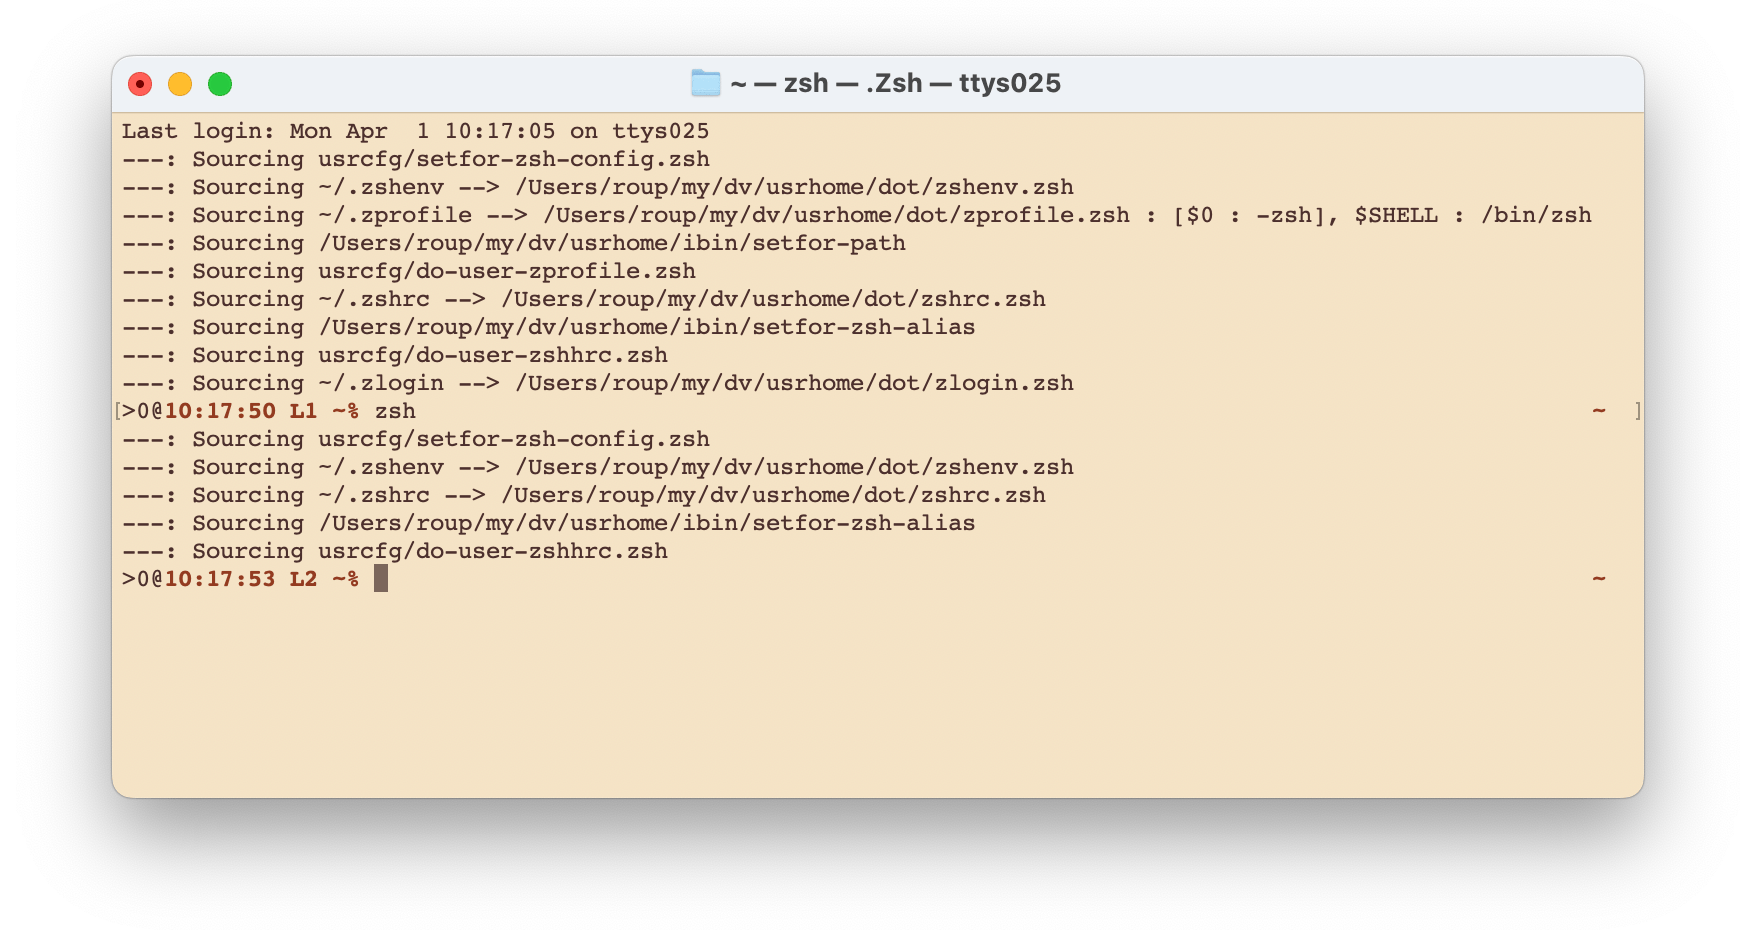
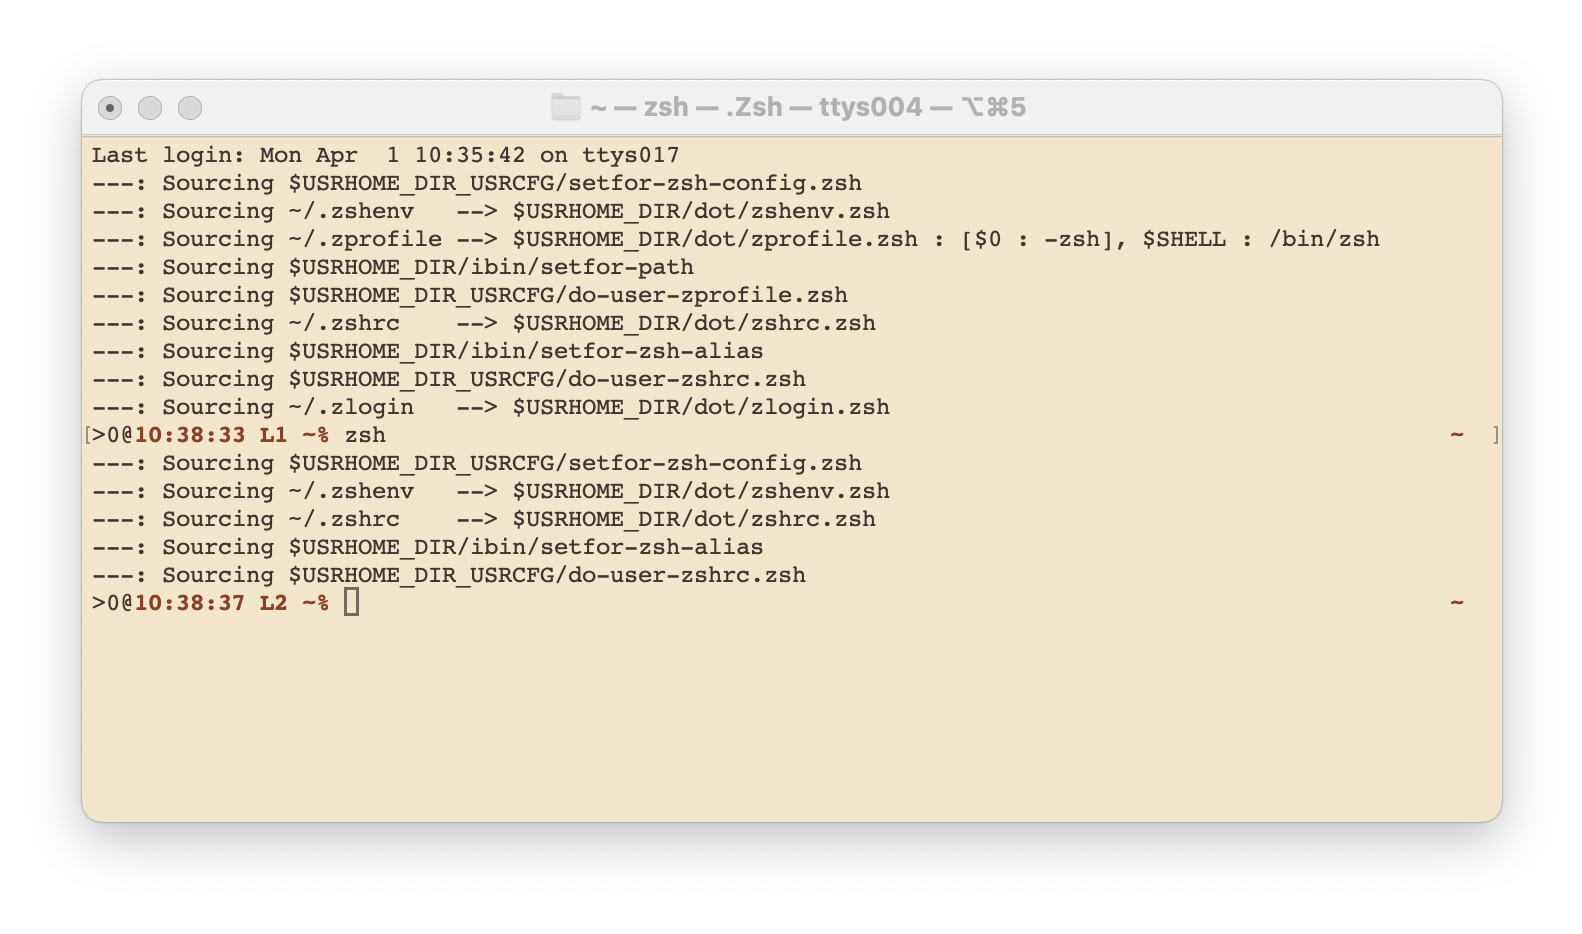
Show name of environment variables instead of real path when tracing
This way the image represent what others will see and it's a better
hint when troubleshooting.

Changed region(s): [[0.031, 0.0624, 0.9602, 0.9043]]

diff --git a/readme.rst b/readme.rst
@@ -543,7 +543,8 @@ which file is sourced.
 
 With all usrcfg files existing, this is what you'd see from macOS that uses the Z
 Shell as the default shell when you open a new terminal and then create a
-sub-shell inside it.
+sub-shell inside it.  The name of the environment variables are shown instead
+of the real path.
 
 .. figure:: res/zsh-tracing-startup-01.png
 
